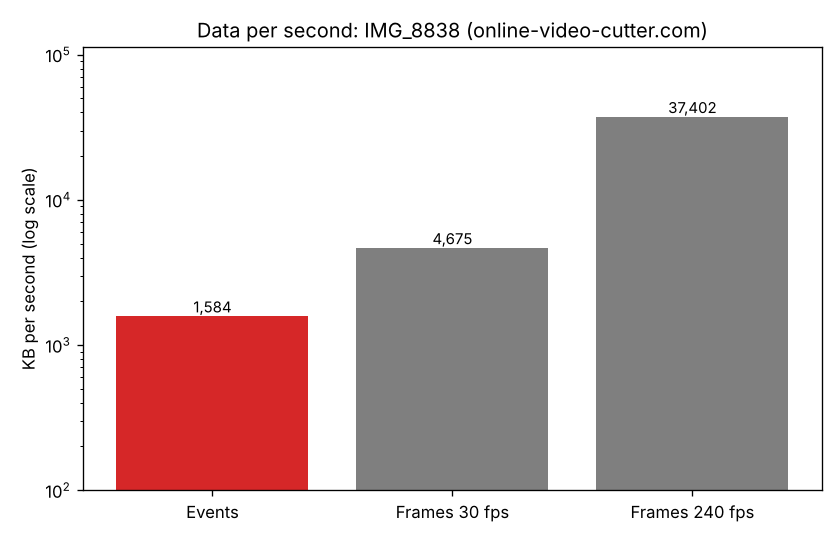
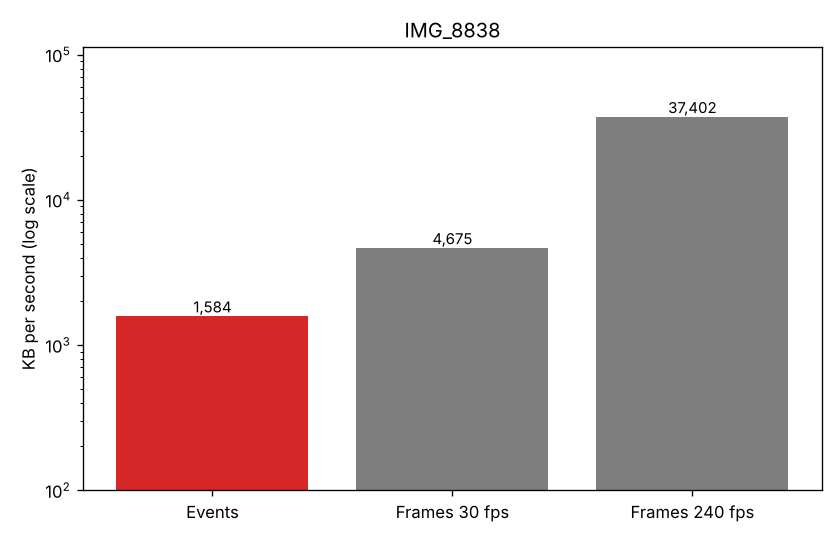
phone_demo: title each data chart with just the video's name
Drops the "Data per second:" prefix and any bracketed extras added by
editing websites, e.g. "IMG_8838 (online-video-cutter.com)" -> "IMG_8838".
Reran on all three videos; only the charts changed.

Claude-Session: https://claude.ai/code/session_01FGUZb8Y4weqkL2b9KujAyd

Changed region(s): [[0.2167, 0.0296, 0.8357, 0.0889]]

diff --git a/phone_demo.py b/phone_demo.py
@@ -7,6 +7,7 @@ Usage:
 """
 import argparse
 import os
+import re
 import subprocess
 import sys
 import tempfile
@@ -187,7 +188,9 @@ def save_data_chart(stats):
     # (and leave room above the tallest bar for its number)
     ax.set_ylim(10 ** (np.floor(np.log10(min(values))) - 1), max(values) * 3)
     ax.set_ylabel("KB per second (log scale)")
-    ax.set_title(f"Data per second: {stats['name']}")
+    # Title = just the video's name, without bracketed extras added by editing
+    # websites, e.g. "IMG_8838 (online-video-cutter.com)" -> "IMG_8838"
+    ax.set_title(re.sub(r"\s*\(.*?\)", "", stats["name"]).strip() or stats["name"])
     fig.tight_layout()
     chart_path = f"results/{stats['name']}_data_size.png"
     fig.savefig(chart_path, dpi=120)
